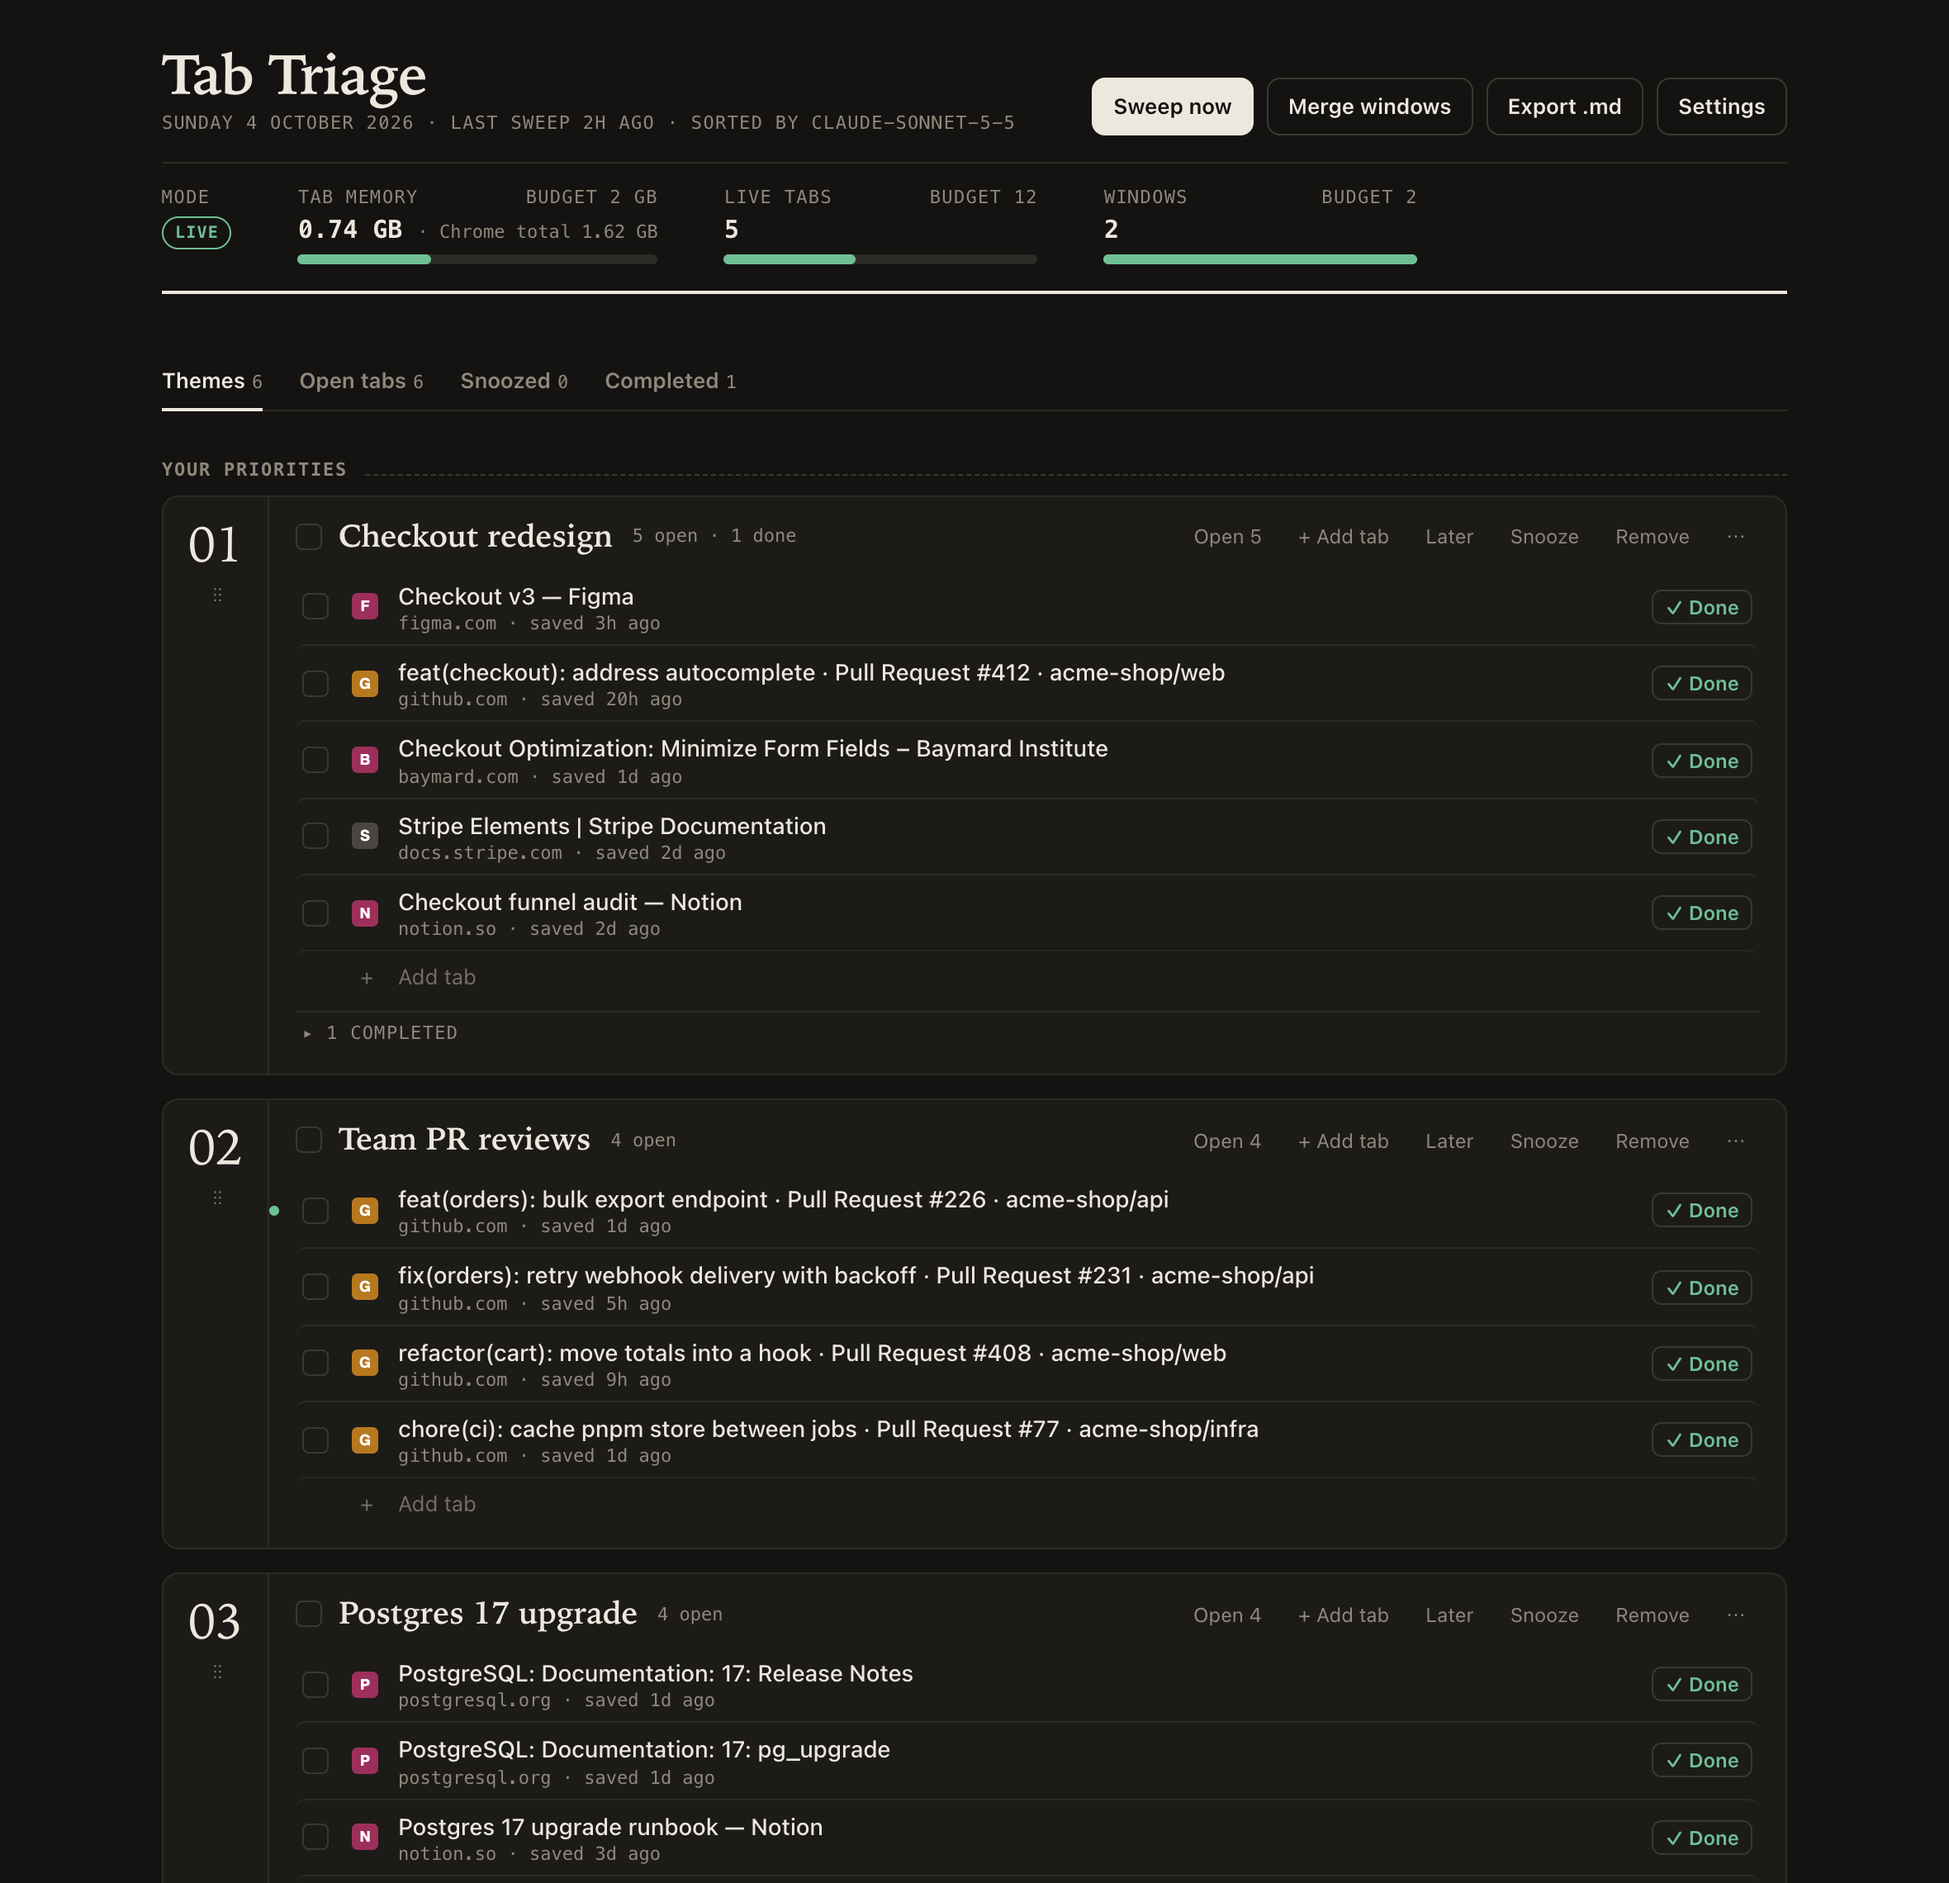
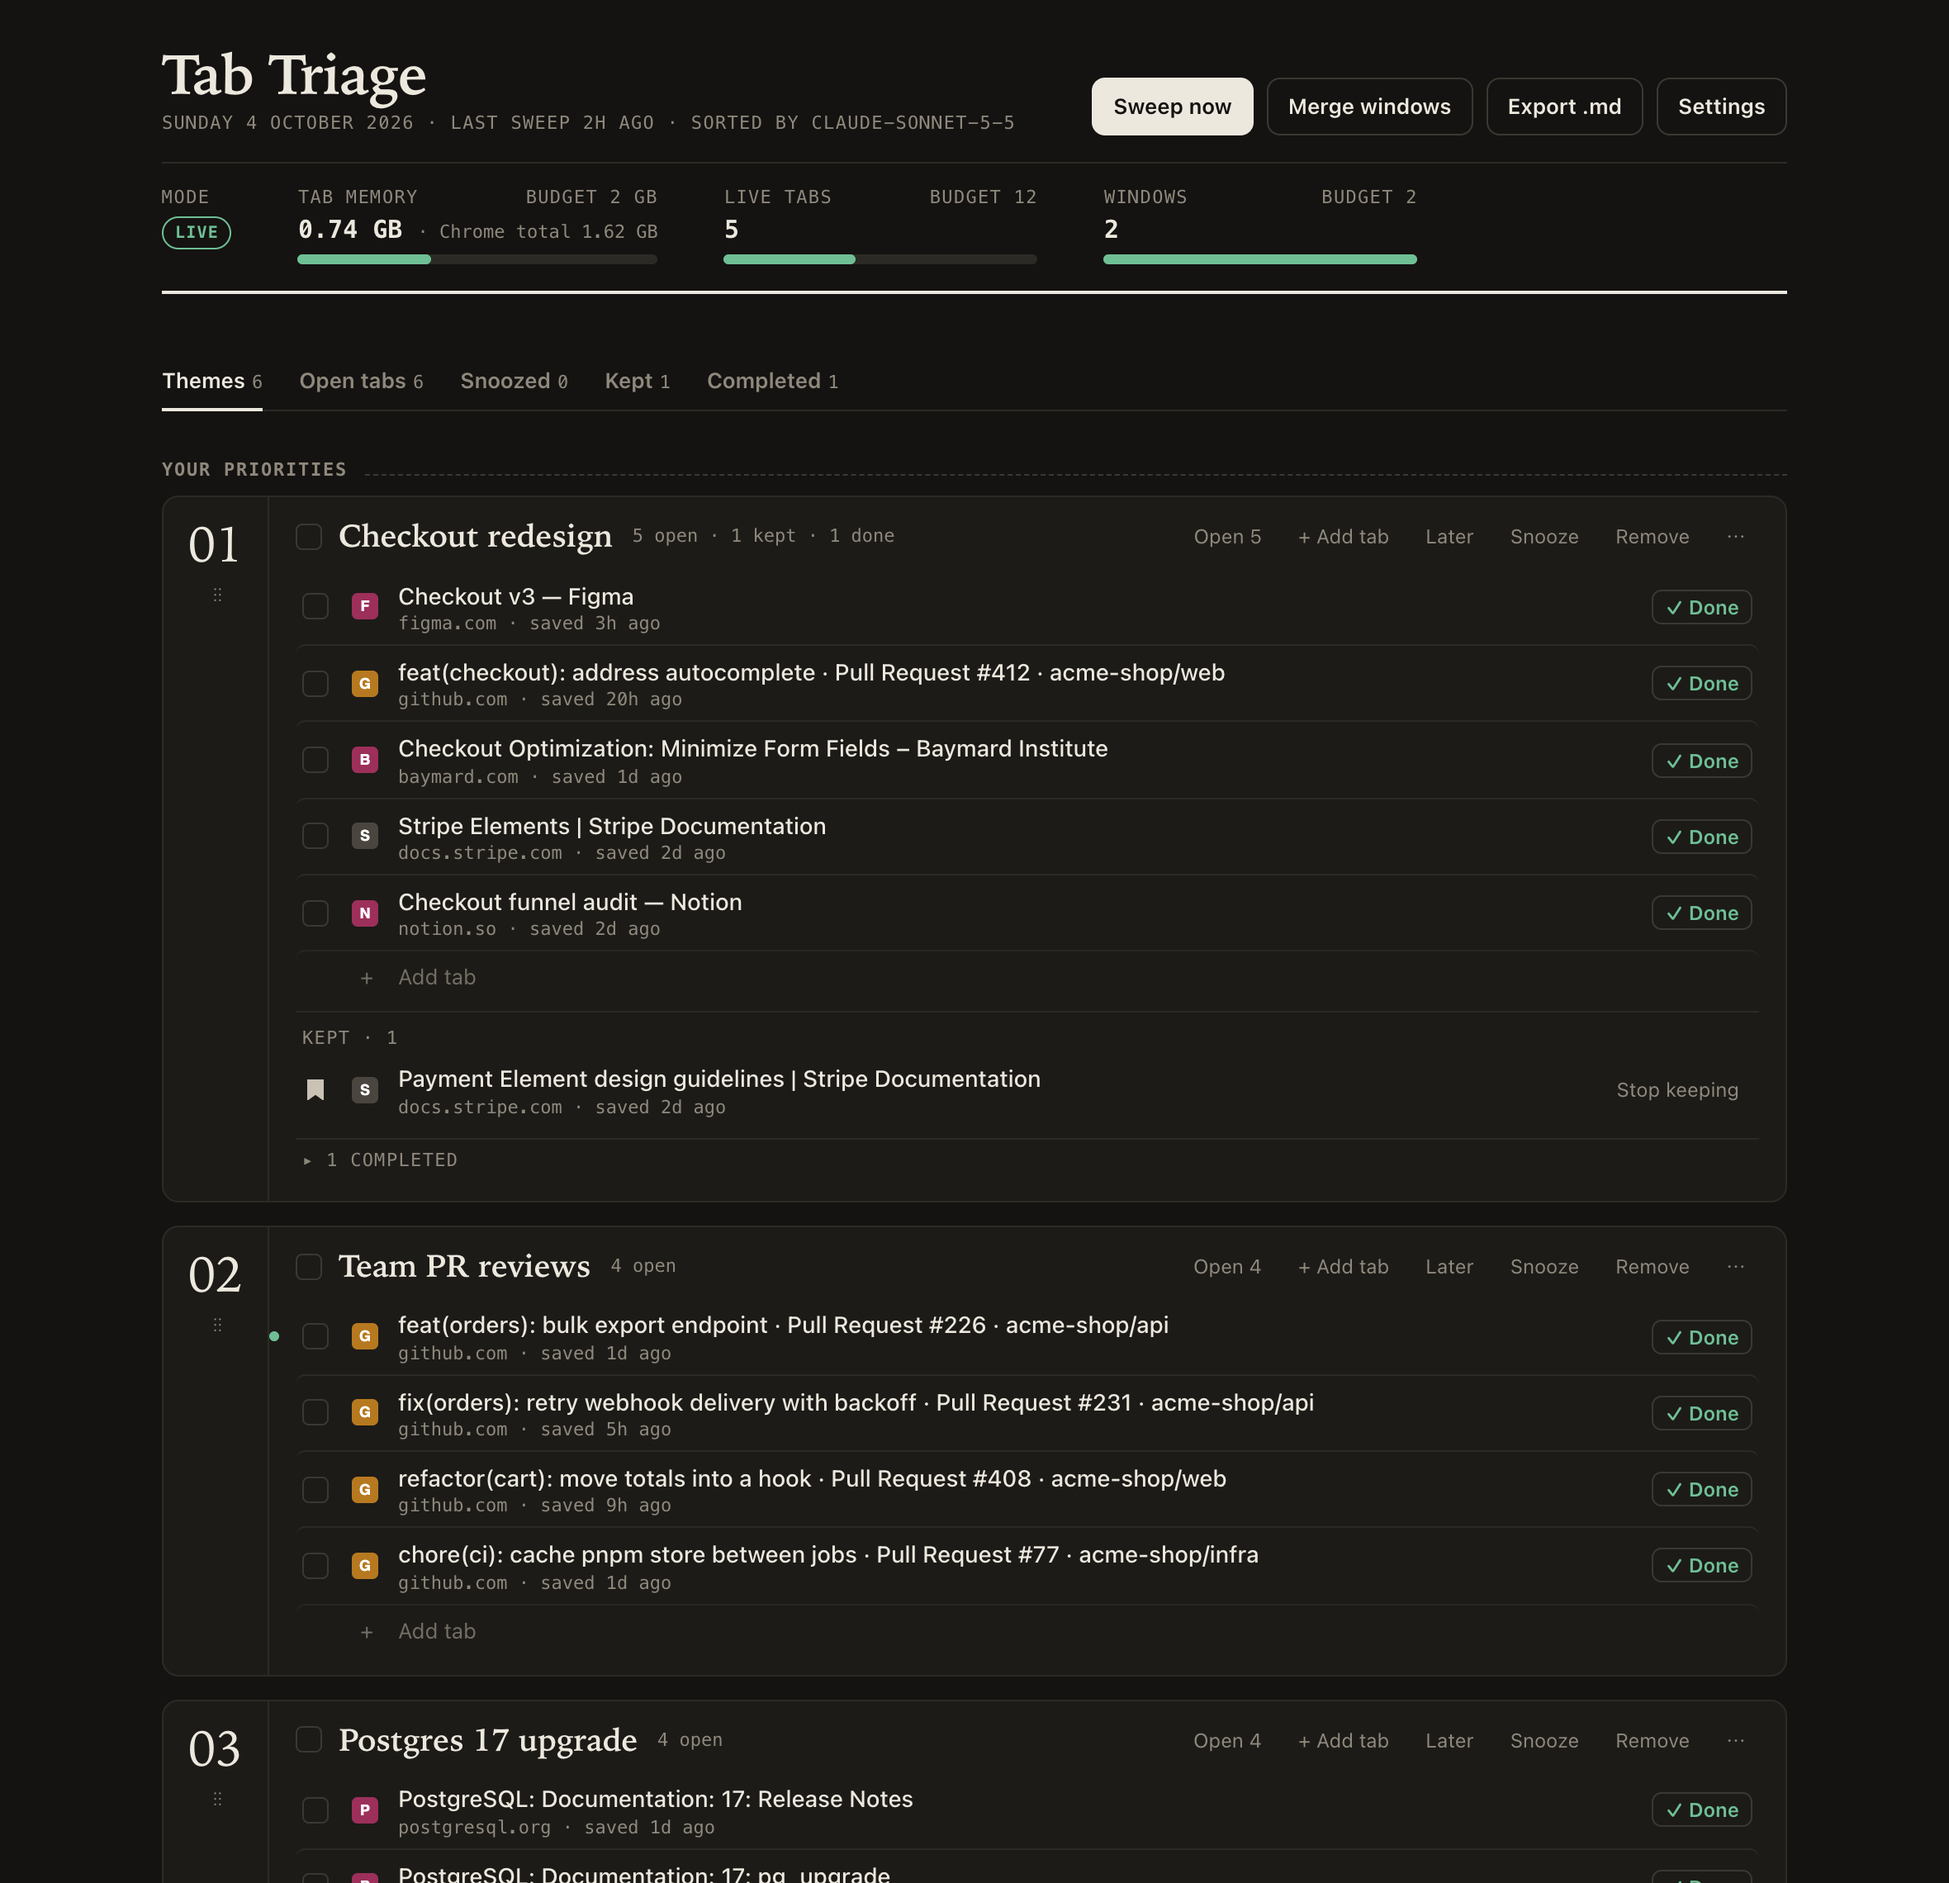
docs(readme): document Keep, open pictures full size and space the actions table
Adds the Keep row, the Kept view and a Done, Keep or Remove summary; retakes
the dashboard pictures with a kept tab and five views; wraps every picture in a
link to the full-size image; adds space between the view picture and the table.

diff --git a/README.md b/README.md
@@ -8,11 +8,13 @@ from the dashboard: prioritize themes, open the tabs for one task, mark them don
 The result is a couple of Chrome windows with a handful of live tabs, a task list that doesn't
 depend on tabs staying open, and far less memory use.
 
-<picture>
-  <source media="(prefers-color-scheme: dark)" srcset="docs/images/dashboard-dark.png">
-  <img src="docs/images/dashboard-light.png" width="900"
-       alt="The Tab Triage dashboard: a header with mode, tab memory, live tabs and windows, then prioritized themes, each listing its saved tabs with a checkbox to select and a Done button.">
-</picture>
+<a href="docs/images/dashboard-light.png">
+  <picture>
+    <source media="(prefers-color-scheme: dark)" srcset="docs/images/dashboard-dark.png">
+    <img src="docs/images/dashboard-light.png" width="900"
+         alt="The Tab Triage dashboard: a header with mode, tab memory, live tabs and windows, then prioritized themes, each listing its saved tabs with a checkbox to select and a Done button.">
+  </picture>
+</a>
 
 *The dashboard, shown with demo data.*
 
@@ -69,14 +71,18 @@ subscription, or reports an API key, the sorting call is refused instead of bein
       of the address bar and click the pin next to **Tab Triage**. (With **Pin new extensions to
       Toolbar** switched on, as in the picture, the icon appears by itself.)
 
-      <img src="docs/images/install-pin.png" width="286"
-           alt="The Tab Triage row in Chrome's Extensions menu, with a pin icon to its right.">
+      <a href="docs/images/install-pin.png"><img src="docs/images/install-pin.png" width="286"
+           alt="The Tab Triage row in Chrome's Extensions menu, with a pin icon to its right."></a>
 
-   <picture>
-     <source media="(prefers-color-scheme: dark)" srcset="docs/images/install-extensions-dark.png">
-     <img src="docs/images/install-extensions-light.png" width="800"
-          alt="Chrome's Extensions page with the Developer mode switch at the top right marked 1 and the Load unpacked button at the top left marked 2.">
-   </picture>
+   <a href="docs/images/install-extensions-light.png">
+     <picture>
+       <source media="(prefers-color-scheme: dark)" srcset="docs/images/install-extensions-dark.png">
+       <img src="docs/images/install-extensions-light.png" width="800"
+            alt="Chrome's Extensions page with the Developer mode switch at the top right marked 1 and the Load unpacked button at the top left marked 2.">
+     </picture>
+   </a>
+
+   Click a picture to open it full size.
 
 3. Click the Tab Triage icon. The dashboard opens.
 
@@ -122,22 +128,29 @@ are never swept.
 **The header** shows the mode (First run / Dry-run / Live), tab memory against its budget, how
 many tabs are loaded, and how many windows are open.
 
-<picture>
-  <source media="(prefers-color-scheme: dark)" srcset="docs/images/header-dark.png">
-  <img src="docs/images/header-light.png" width="760"
-       alt="The dashboard header: Mode Live, Tab memory 0.74 GB of a 2 GB budget, Live tabs 5 of 12, Windows 2 of 2, with the Sweep now, Merge windows, Export .md and Settings buttons.">
-</picture>
+<a href="docs/images/header-light.png">
+  <picture>
+    <source media="(prefers-color-scheme: dark)" srcset="docs/images/header-dark.png">
+    <img src="docs/images/header-light.png" width="760"
+         alt="The dashboard header: Mode Live, Tab memory 0.74 GB of a 2 GB budget, Live tabs 5 of 12, Windows 2 of 2, with the Sweep now, Merge windows, Export .md and Settings buttons.">
+  </picture>
+</a>
 
-The dashboard has four views: **Themes** (your list, in priority order, with unranked themes
+The dashboard has five views: **Themes** (your list, in priority order, with unranked themes
 below and Later ones at the bottom), **Open tabs** (every web page open in Chrome right now,
-except the dashboard itself and Chrome's own pages such as `chrome://extensions`), **Snoozed**
-and **Completed**.
+except the dashboard itself and Chrome's own pages such as `chrome://extensions`), **Snoozed**,
+**Kept** (every tab you chose to keep, by theme, including themes that have left the list) and
+**Completed**.
 
-<picture>
-  <source media="(prefers-color-scheme: dark)" srcset="docs/images/views-dark.png">
-  <img src="docs/images/views-light.png" width="376"
-       alt="The view switcher: Themes, Open tabs, Snoozed and Completed, each with a count.">
-</picture>
+<a href="docs/images/views-light.png">
+  <picture>
+    <source media="(prefers-color-scheme: dark)" srcset="docs/images/views-dark.png">
+    <img src="docs/images/views-light.png" width="437"
+         alt="The view switcher: Themes, Open tabs, Snoozed, Kept and Completed, each with a count.">
+  </picture>
+</a>
+
+<br>
 
 | To do this | Do this |
 |---|---|
@@ -148,6 +161,7 @@ and **Completed**.
 | Add the tab you're on, without the dashboard | Right-click **inside the page** → **Add this tab to Tab Triage** → **Add & close** or **Add, keep open** → a theme, **Let Claude choose**, or **On its own (Unsorted)**. It also works by right-clicking the Tab Triage toolbar icon. Chrome doesn't allow extensions in the menu you get by right-clicking a tab in the tab bar at the top of the window. |
 | Add a tab from a link | **+ Add tab**, at the top of a theme card or under its last tab. Paste the link and press Enter. The title is filled in. |
 | Mark a tab done | Click **✓ Done** on its row. It greys out, drops to the bottom of the theme and appears under **Completed** for 60 days (by default), then is deleted for good. **Restore** brings it back. |
+| Keep a tab you've finished but want to read again | Hover over it and click **Keep** (also offered on rows in **Completed**). It moves to a **Kept** group at the bottom of its theme and is never deleted. It no longer counts as open work: **Open N**, **Mark all done** and the checkboxes skip it. **Stop keeping** moves it to Completed. |
 | Prioritize themes | Drag a theme by its number. While you drag, cards collapse to headers and a "Drop here to make it #1" bar appears at the top. Or use **⋯ → Move to top / Move up / Move down**. |
 | Reorder or move tabs | Drag a tab within its theme, onto another theme, or onto a theme in **Later**. **Move to…** in the selection bar lists every theme, including Later and snoozed ones. |
 | Act on several tabs | Tick their checkboxes (shift-click for a range), or tick the box next to a theme's name to select all its tabs. A bar appears just above the topmost selected tab with **Done**, **Move to…**, **Snooze** and **Remove**. Esc clears. |
@@ -157,7 +171,7 @@ and **Completed**.
 | Combine themes | **⋯ → Merge into…**, then pick the theme from the searchable list. |
 | Finish a whole theme | **⋯ → Mark all done**. Reversible while the tabs are in Completed. |
 | Undo a grouping you don't like | **⋯ → Dissolve**. Its tabs go back to Claude to be re-sorted, and Claude is told not to recreate that theme. |
-| Remove a theme | **Remove** on the theme card, or **⋯ → Remove theme**. All its tabs leave the list (and close in Chrome if open); tabs you had already completed keep their history in Completed. **Undo** in the message brings everything back. |
+| Remove a theme | **Remove** on the theme card, or **⋯ → Remove theme**. All its tabs leave the list (and close in Chrome if open); tabs you had already completed keep their history in Completed, and kept tabs stay in the Kept view. **Undo** in the message brings everything back. |
 | Reduce the number of windows | **Merge windows** brings you down to two windows: the dashboard's window and one other (the one with your inboxes, else the largest) stay as they are, and tabs from every other window move into them. With two or fewer windows it does nothing. Nothing is closed. |
 | Keep a copy | **Export .md** downloads the list as Markdown. |
 
@@ -169,8 +183,13 @@ back. To clear the label without dropping the theme, use it: open, add, complete
 its tabs. When Claude thinks two themes overlap, the card shows a **Merge** suggestion you can accept
 or dismiss.
 
-**Done vs Remove:** click ✓ Done when you've finished with a tab; it's kept in Completed (60 days by default)
-as a record. Remove it when it turned out not to be useful; it leaves no history.
+**Done, Keep or Remove:**
+
+- **✓ Done** when you've finished with a tab. It stays in Completed (60 days by default) as a
+  record, then is deleted.
+- **Keep** when you've finished with it but will want to read it again. It stays with its theme
+  and is never deleted.
+- **Remove** when it turned out not to be useful. It leaves no history.
 
 Your corrections (moving a tab to another theme, renaming, merging, dissolving) are passed to
 Claude on later sweeps so it stops repeating the same mistake.
@@ -191,7 +210,8 @@ takes stale tabs; **Sweep now** and the first run take every tab that isn't prot
 - any tab you used after it was saved
 
 **Saved to the dashboard, then closed:** every other stale tab. Gmail threads go to an
-"Email follow-ups" theme by subject line only.
+"Email follow-ups" theme by subject line only. A kept tab that you opened again is closed the
+same way and stays kept; a completed one becomes open work again.
 
 **Closed without saving:**
 - exact duplicates of another open tab, at any age (the most recently used copy stays)
